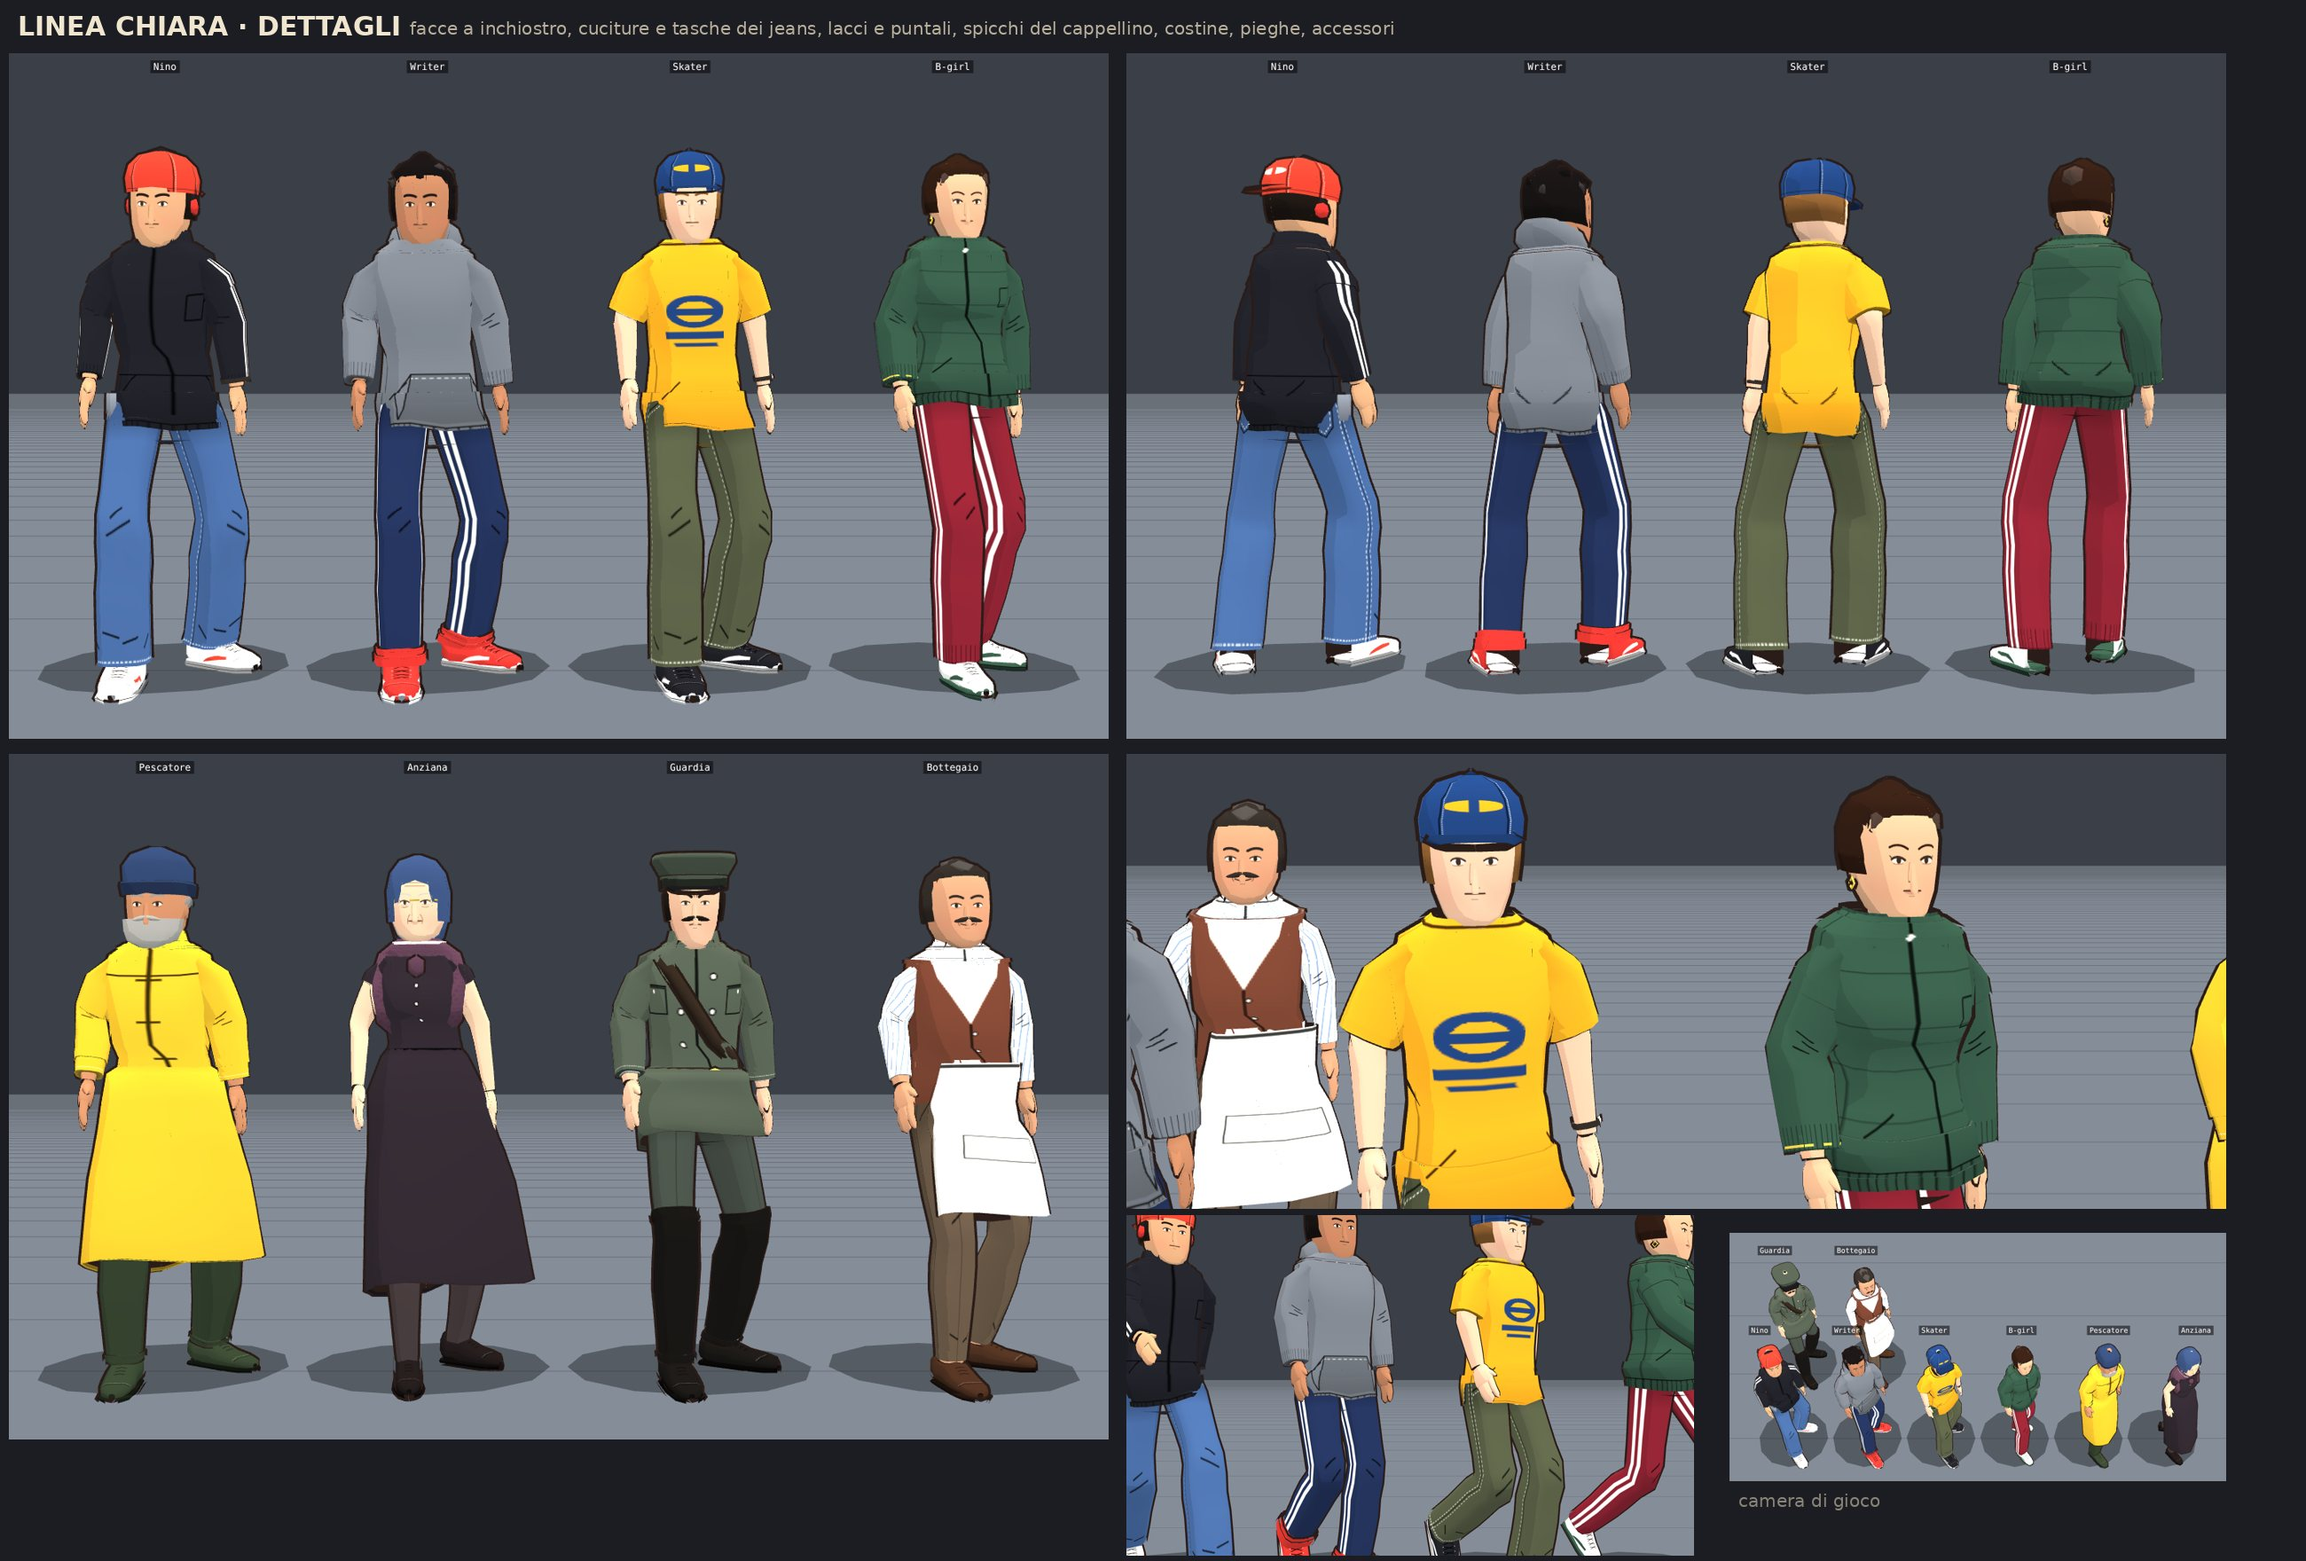
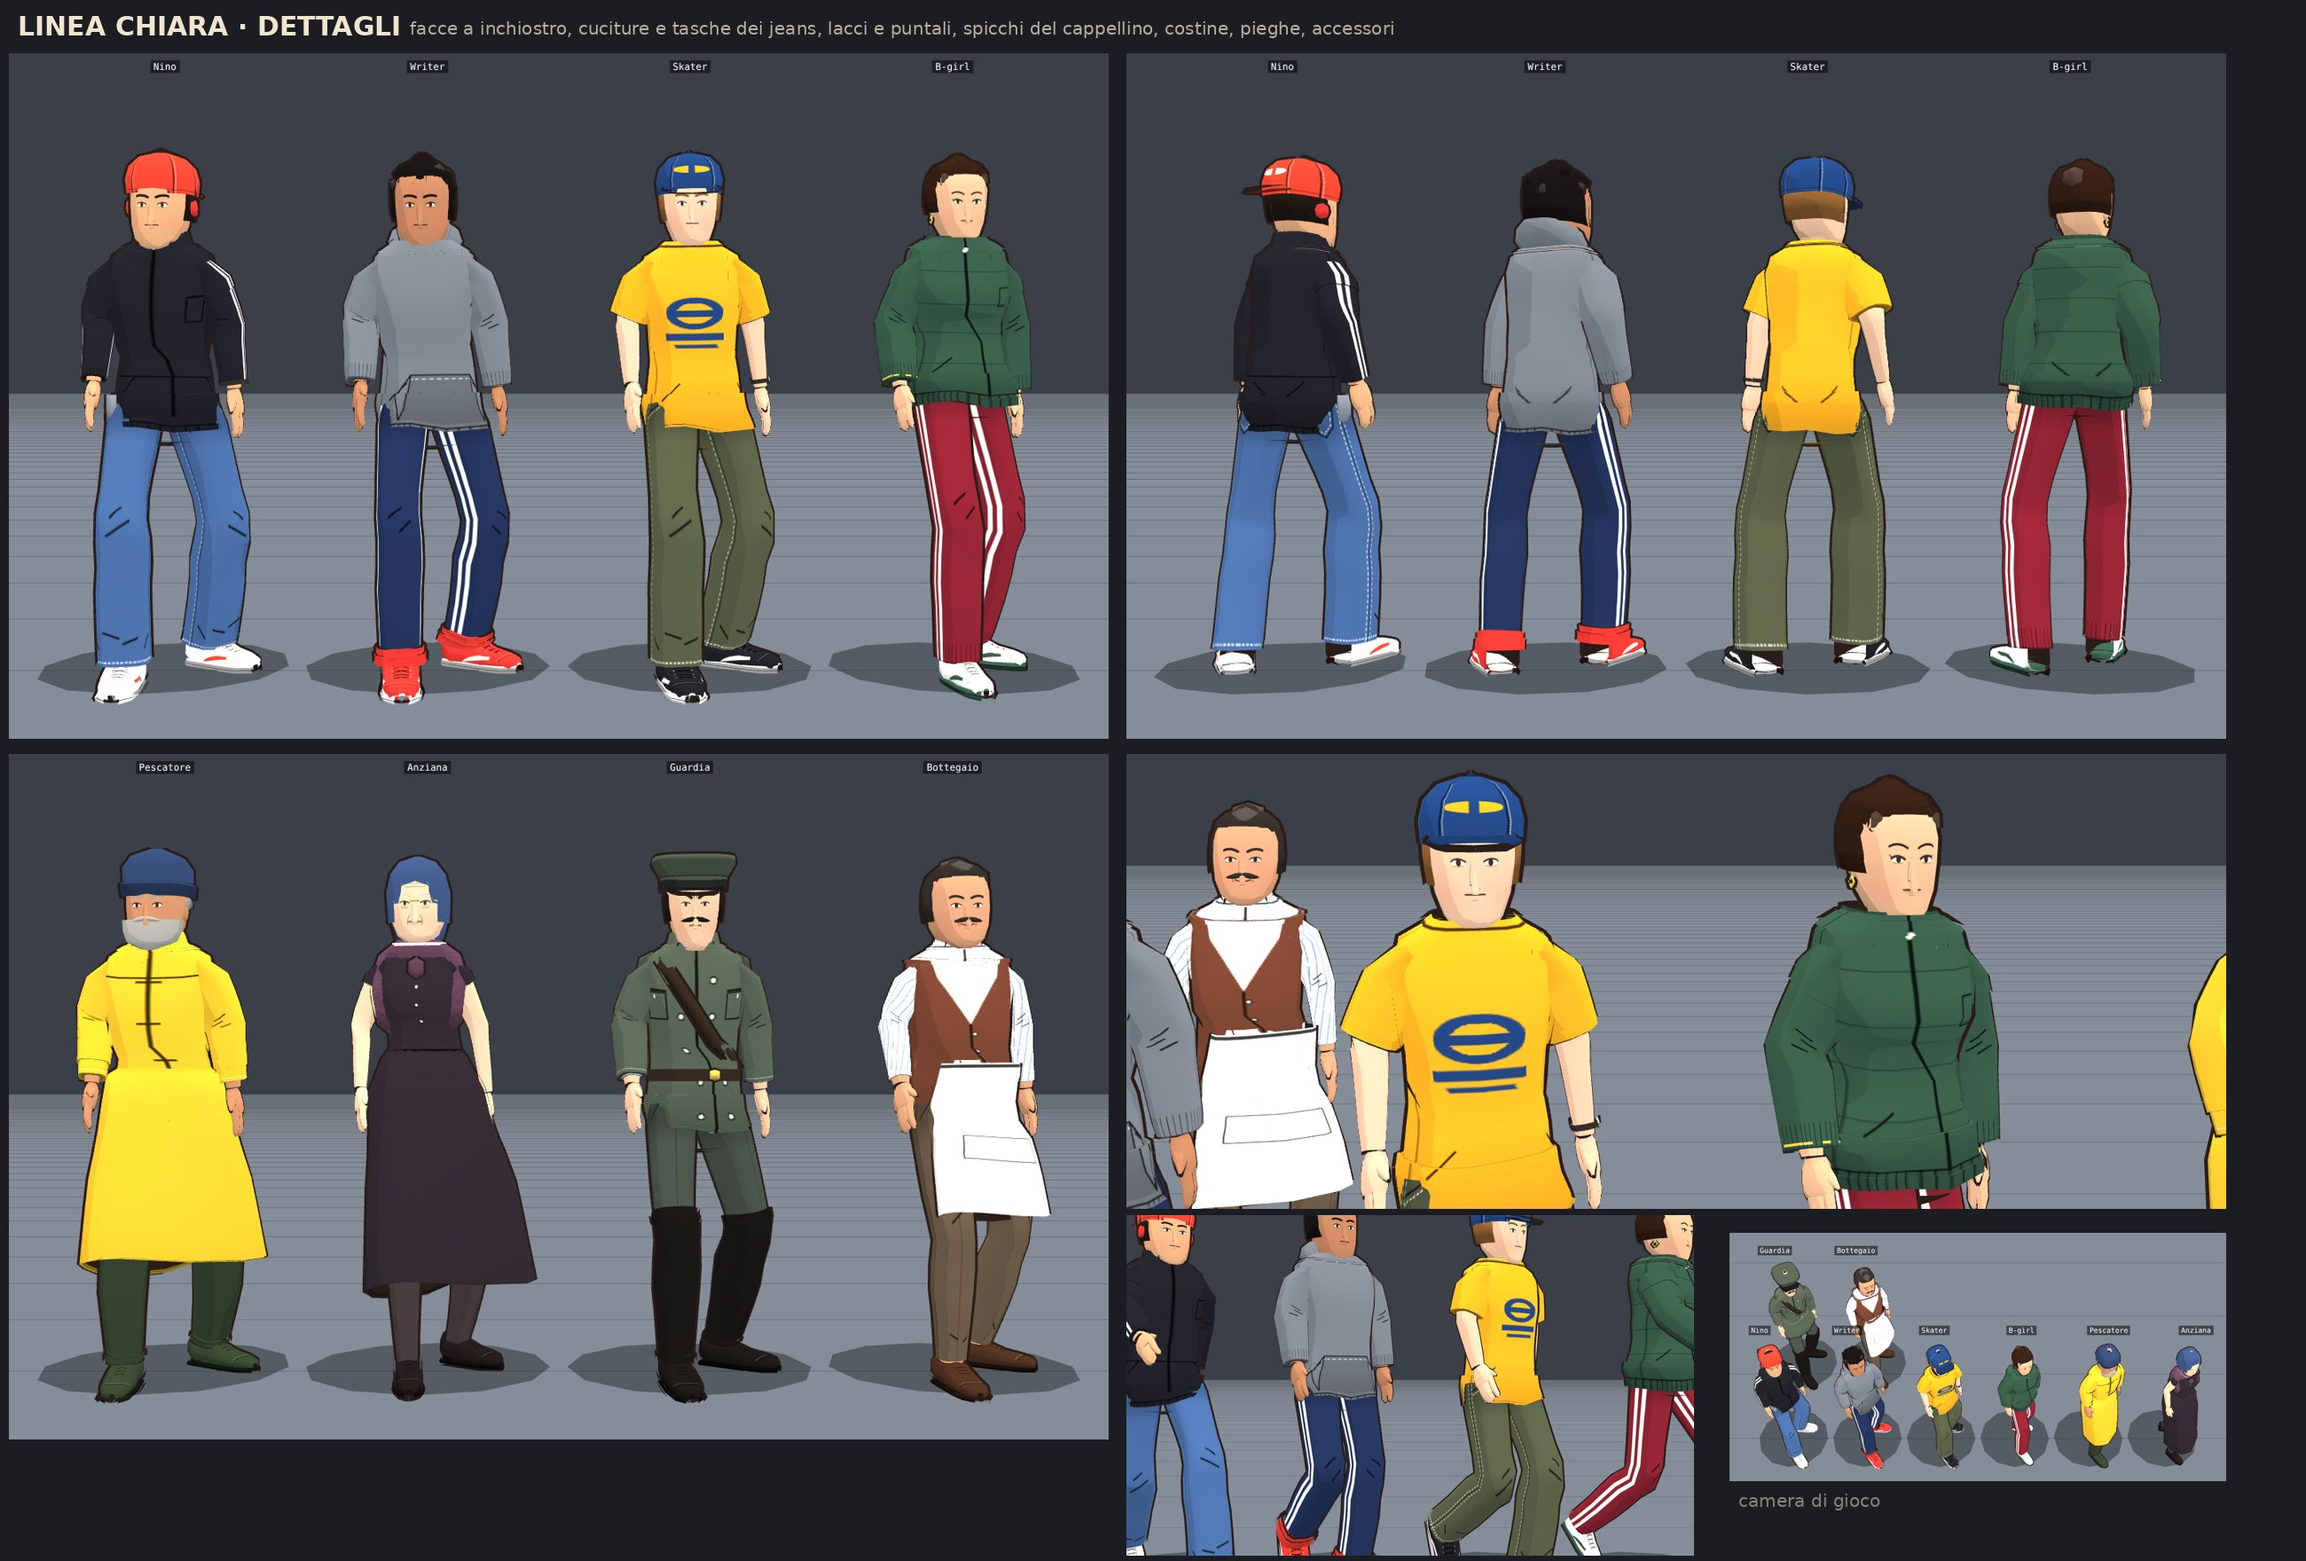
[personaggi] giacca e divisa scendono dritte con l'orlo, niente falda a scatola
Claude-Session: https://claude.ai/code/session_01JZTxbDaFvr9eJLacMLFKTo

diff --git a/v7/src/personaggi.js b/v7/src/personaggi.js
@@ -172,8 +172,8 @@ var Personaggi = (function () {
     maglione: { busto: [.0, 1, .014], braccio: [0, .96, .012], tile: 'maglione', ptile: 'maglia', orlo: .06, orloSp: .005, colletto: 'giro' },
     felpa: { busto: [-.02, 1, .016], braccio: [0, .97, .014], orlo: .06, orloSp: .006, colletto: 'cappuccio', tile: 'felpa', manica: 'polsino' },
     gilet: { busto: [.08, .9, .012], tile: 'gilet', orlo: .02 },
-    giacca: { busto: [-.03, 1, .016], braccio: [0, .93, .014], tile: 'giacca', orlo: .03, colletto: 'revers', falda: [0, .13, 1] },
-    divisa: { busto: [-.03, 1, .018], braccio: [0, .94, .015], tile: 'divisa', orlo: .03, colletto: 'alto', cintura: 1, spalline: 1, falda: [0, .12, 1] },
+    giacca: { busto: [-.08, 1, .016], braccio: [0, .93, .014], tile: 'giacca', orlo: .03, colletto: 'revers', svasa: .012, manica: 'manica' },
+    divisa: { busto: [-.08, 1, .018], braccio: [0, .94, .015], tile: 'divisa', orlo: .03, colletto: 'alto', cintura: 1, spalline: 1, svasa: .012, manica: 'manica' },
     cappotto: { busto: [-.03, 1, .02], braccio: [0, .95, .018], tile: 'cappotto', orlo: .03, colletto: 'revers', falda: [0, .58, 1.05] },
     cerata: { busto: [-.03, 1, .02], braccio: [0, .95, .02], tile: 'cerata', orlo: .05, orloSp: .008, colletto: 'alto', falda: [0, .6, 1.1] },
     tuta: { busto: [-.02, .97, .012], braccio: [0, .95, .012], gamba: [-.05, .96, .012], tile: 'tuta', orlo: .03, colletto: 'camicia' },
